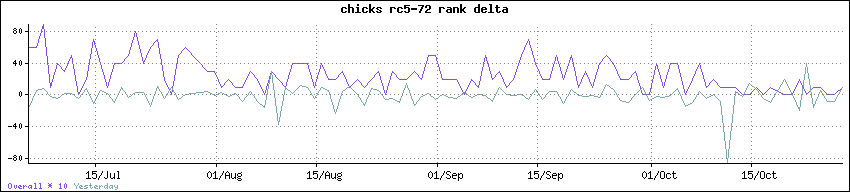
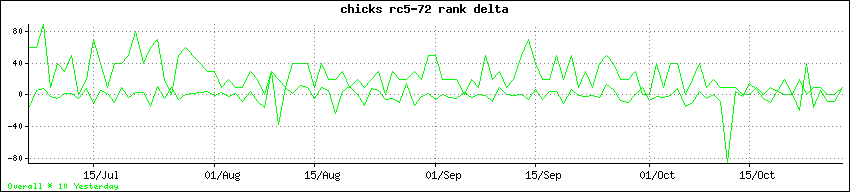
new color scheme

diff --git a/README.md b/README.md
@@ -3,6 +3,16 @@ life-graphs
 
 graphs of health, money, and technology
 
+PREREQUISITES
+-------------
+
+If you want to do more than view my personal graphs on the Internet you should install these Perl modules (debian packages):
+
+* DateTime (`libdatetime-perl`)
+* LWP::Simple (`libwww-perl`)
+* JSON (`libjson-perl`)
+* Chart::Strip (`libchart-strip-perl`)
+
 DATA COLLECTORS DONE
 --------------------
 
